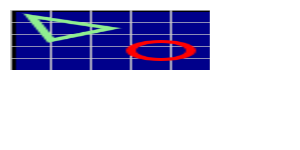
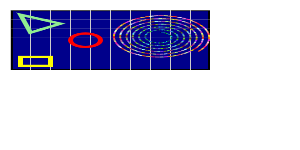
Update tests
And rename getCmdIdx to cmdIdxBy. A fragment of
493fab2cb177e0f0d018e8985c8fb1d8ab112cf5.

Changed region(s): [[0.03, 0.0533, 0.72, 0.48]]

diff --git a/src/g2.js b/src/g2.js
@@ -14,7 +14,7 @@
  *     .lin({x1:50,y1:50,x2:100,y2:100})  // Append ...
  *     .lin({x1:100,y1:100,x2:200,y2:50}) // ... commands.
  *     .exe(ctx);                         // Execute commands addressing canvas context.
[2 lines of base64/hex data omitted]
 /**
  * g2.lib (c) 2013-17 Stefan Goessner
  * geometric constants and higher functions

diff --git a/docs/index/index.js b/docs/index/index.js
@@ -149,9 +149,7 @@ new Test('img6',
 
 new Test('img7',
 `g2()
-  .beg({x: 10, y: 60, w:0.5 })
-  .img({uri:'img/imageTst.png', x: 0, y: -50, b: 100, h: 50, w: 0})
-  .end()
+  .img({uri:'img/imageTst.png', x: 10, yoff: -50, y: 60, b: 100, h: 50, w: 0.5})
   .rec({x: 10, y: 10, b: 100, h: 50})`),
 
 new Test('img8',
@@ -169,6 +167,18 @@ new Test('img11',
   .img({uri:'img/imageTst.png', x: 10, y: 10, scl:.4})
   .img({uri:'img/imageTst.png', x: 80, y: 50, scl:.4})
   .img({uri:'img/imageTst.png', x: 160, y: 100, scl:.4})`),
+
+new Test('img12',
+`g2().img({uri:'img/imageTst.png', x: 10, y: 10, b: 200, h: 100, sx: 10, sy: 10, w: 0.5})
+    .beg({x: 10, y: 10, w: 0.5})
+    .rec({b: 200, h: 100})
+    .end()`),
+
+new Test('img13',
+`g2().img({uri:'img/imageTst.png', x: 50, y: 50, b:140, h:65, xoff: 10, yoff: 10, w:0.5})
+    .beg({x:50, y:50, w:0.5})
+    .rec({b: 150, h: 75})
+    .end()`),
 
 new Test('beg-end',
 `g2().beg({x:70,y:30,w:0.2,scl:2,ls:'#666',fs:'orange',lw:3,lc:'round',lj:'round'})

diff --git a/g2.html.js b/g2.html.js
@@ -580,7 +580,7 @@ g2.pntItrOf = function(pts) {
  * Similar to 'Array.prototype.findIndex', only working reverse.
  * @private
  */
-g2.getCmdIdx = function(cmds,callbk) {
+g2.cmdIdxBy = function(cmds,callbk) {
     for (let i = cmds.length-1; i >= 0; i--)
         if (callbk(cmds[i],i,cmds))
             return i;

diff --git a/src/g2.core.js b/src/g2.core.js
@@ -580,7 +580,7 @@ g2.pntItrOf = function(pts) {
  * Similar to 'Array.prototype.findIndex', only working reverse.
  * @private
  */
-g2.getCmdIdx = function(cmds,callbk) {
+g2.cmdIdxBy = function(cmds,callbk) {
     for (let i = cmds.length-1; i >= 0; i--)
         if (callbk(cmds[i],i,cmds))
             return i;

diff --git a/src/g2.full.js b/src/g2.full.js
@@ -580,7 +580,7 @@ g2.pntItrOf = function(pts) {
  * Similar to 'Array.prototype.findIndex', only working reverse.
  * @private
  */
-g2.getCmdIdx = function(cmds,callbk) {
+g2.cmdIdxBy = function(cmds,callbk) {
     for (let i = cmds.length-1; i >= 0; i--)
         if (callbk(cmds[i],i,cmds))
             return i;
